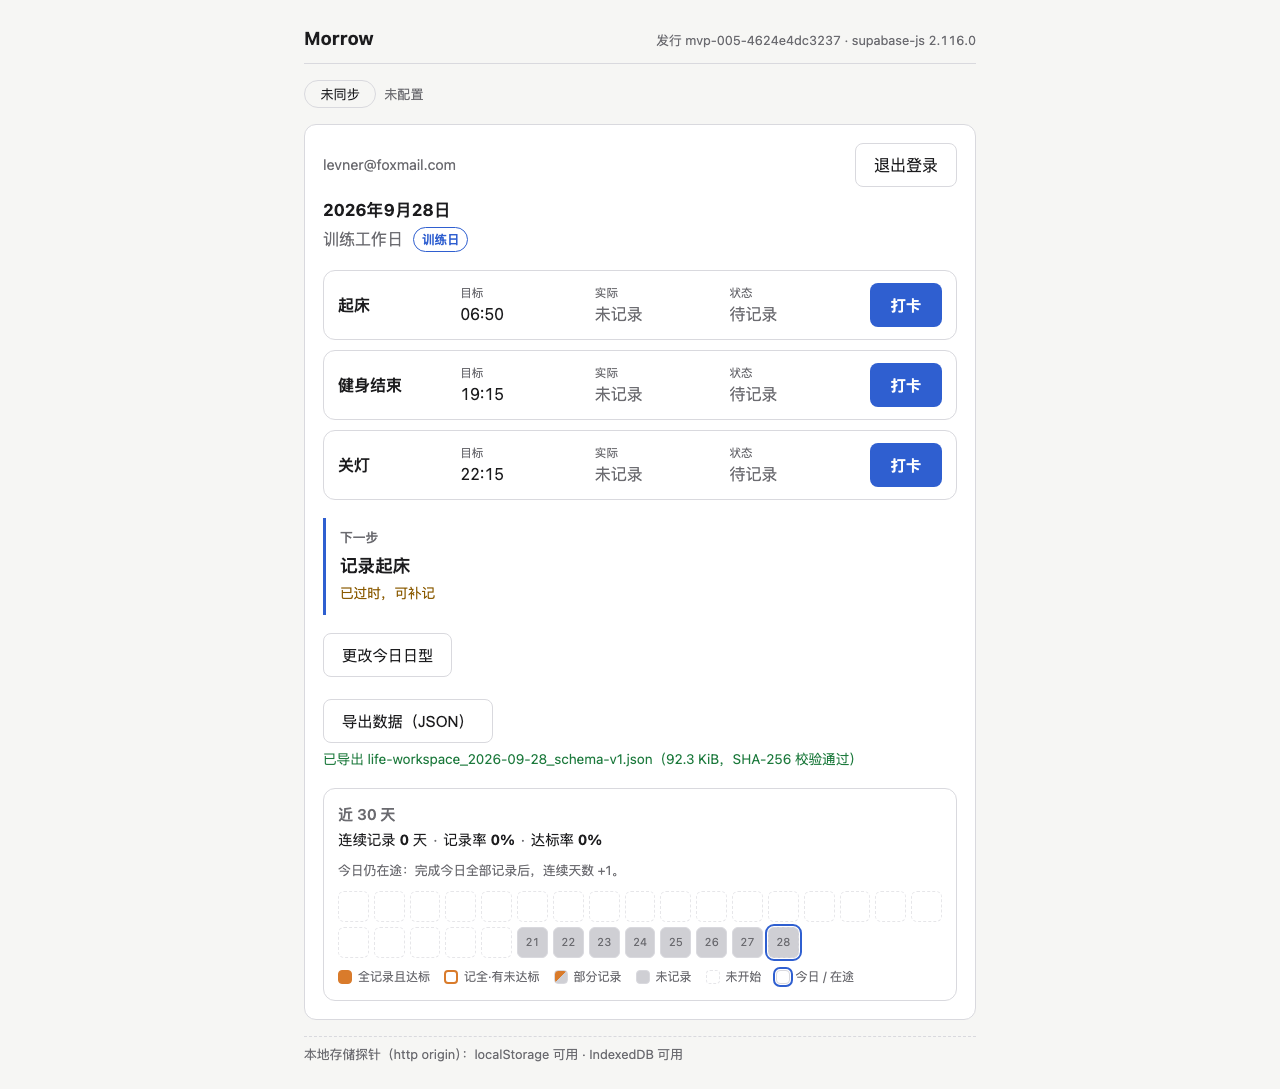
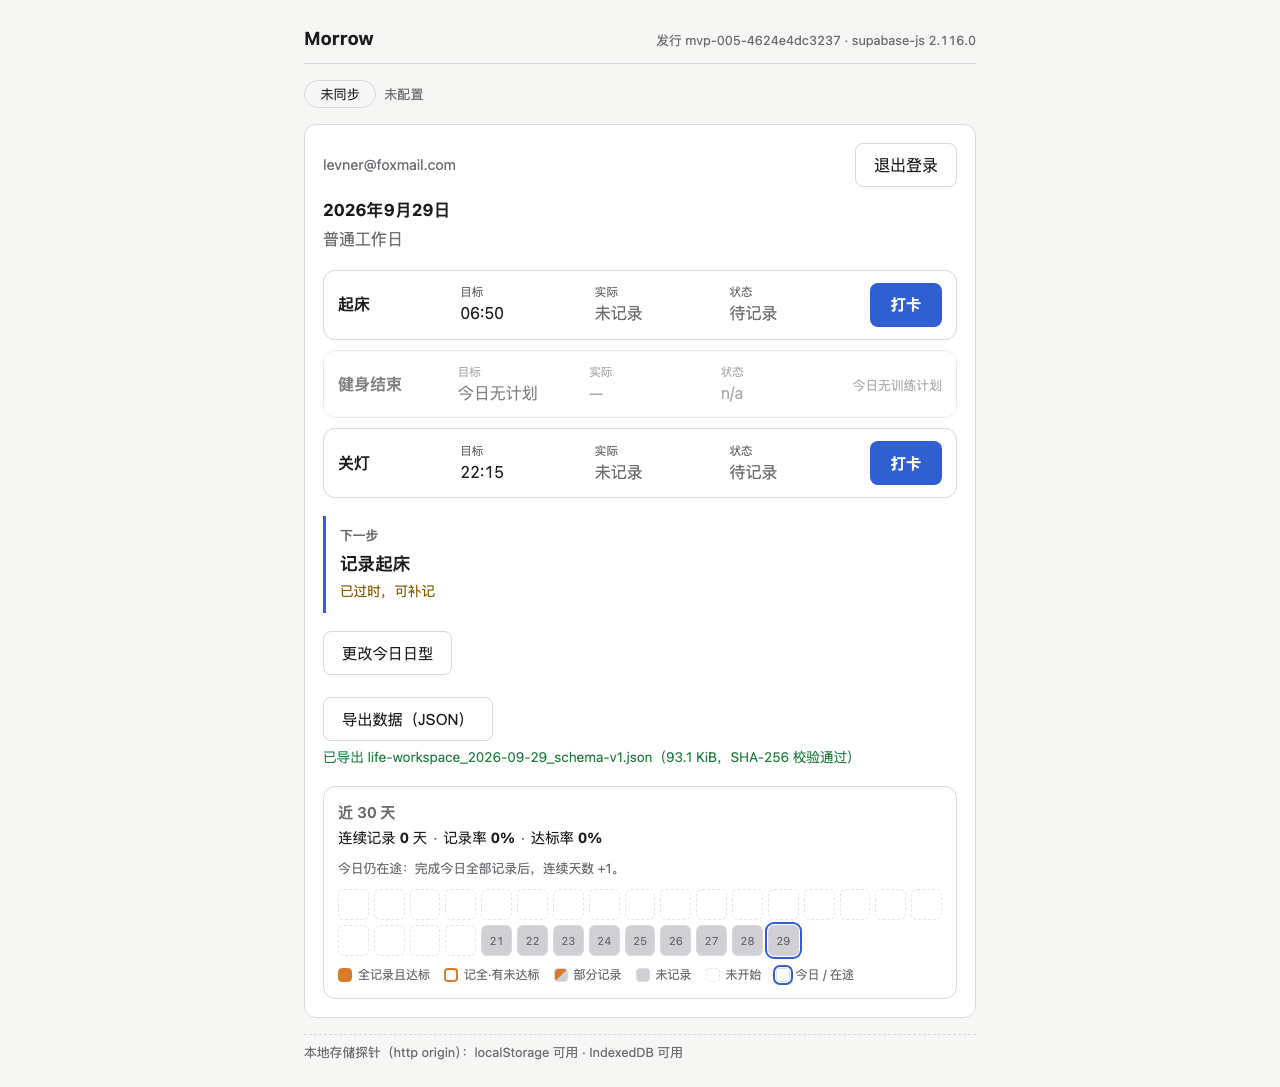
MVP-005: 三方签核闭环——WorkBuddy(Kimi K3)安全复核 PASS(三线全绿+3条P3注记)；Hermes 终核 anon 42501 复现与 wb-s05 零残留对账一致；task-index MVP-005→PASS、next→MVP-006

diff --git a/docs/planning/evidence/MVP-005/workbuddy-security-review.md b/docs/planning/evidence/MVP-005/workbuddy-security-review.md
@@ -1,0 +1,86 @@
+# MVP-005 安全复核报告 — WorkBuddy（Kimi K3）第三方独立复核
+
+> 复核人：WorkBuddy + Kimi K3｜日期：2026-09-29
+> 复核对象：HEAD `a22d279`（= 交付提交 `aa3d7fa` + Hermes 签核仅改 result.md 签核区，`git diff aa3d7fa..a22d279 --stat` 实证代码零变更）
+> 纪律：不采信 Trae/Hermes 结论，全部探针自跑；fixture 前缀 `wb-s05:`；SQL 探针单 DO 块 + RAISE 强制回滚；凭据 keychain 注入进程 env，不落盘不打印；本文所有 key/token/密码值 [REDACTED]，owner uuid 仅留前 8 位 `0c645909…`。
+
+---
+
+## §0 结论：**PASS**
+
+三线全绿，未发现 P0/P1/P2。NEW-FINDING 三条均为 P3 行为边界注记（详见 §2），不构成阻塞。与 Trae/Hermes 结论零实质偏差（§3）。真库零残留已自查（§4）。
+
+---
+
+## §1 三线证据表
+
+### 线 A：无凭据红线
+
+| 项 | 方法 | 期望 | 实测（自跑输出摘要） | 判定 |
+|---|---|---|---|---|
+| A1a `credentials` 列探测 | DO 块 `set role authenticated` + owner claims，`perform credentials from export_agent_clients_v1` | 42703 列不存在 | HTTP 400 `WB_S05_LINEA_PROOF: A1a_credentials_42703: pass` | PASS |
+| A1b `locator` 列探测 | 同上 | 42703 | `A1b_locator_42703: pass` | PASS |
+| A1c `credentials_hash` 补探 | 同上 | 42703 | `A1c_credentials_hash_42703: pass` | PASS |
+| A1d 封闭视图 advice | authenticated 读 `export_agent_advice_v1` | 42501 零授权 | `A1d_agent_advice_42501: pass` | PASS |
+| A1e 封闭视图 rules | authenticated 读 `export_automation_rules_v1` | 42501 | `A1e_automation_rules_42501: pass` | PASS |
+| A1f anon 补刀（自加） | `set role anon` 读 `export_life_data_v1` | 42501（合同 S01） | `A1f_anon_life_data_42501: pass` | PASS |
+| A1g 视图列清单对账 | `information_schema.columns` 实拉 7 个 `export_*_v1` 视图 | 与 C-08 白名单/0004 逐列一致 | 7 视图 58 列逐一比对：agent_clients 恰 11 列（id/user_id/name/type/scopes/enabled/created_at/updated_at/last_seen_at/revoked_at/version），无 credentials/locator/hash；其余 6 视图与 0004 migration 逐列相等，多一列少一列均无 | PASS |
+| A2 scanValue 压力测 | Node vm 沙箱加载发行 `assets/js/export.js`，`_internals.scanValue`，16 变体 | 攻击变体全命中、正常数据不误伤 | **16/16 ALL_PASS**：大写 `API_KEY`/`CREDENTIAL` 命中、`api-key`/`api_key` 命中、嵌套数组内 `token` 命中、JWT(`eyJ…`)/`sb_secret_`/`sk-`/`sb_publishable_` 形态值全命中、深层混合双命中；`request_id`/数字/布尔/null/短 eyJ 不误伤；`tokenized` 命中（与 Hermes 记录一致的已知行为） | PASS |
+| A2b `EyJ` 大小写边界 | 同上 V11/V12 | 如实记录行为边界 | `EyJ…`（大小写混合）hits=0 不命中；非开头 eyJ 不命中（`^` 锚定）→ 记 P3 注记（§2 F1），非缺陷 | PASS（注记） |
+| A2c 样本独立扫描 | 自写扫描器（迭代遍历+独立正则集，**不 import export.js**）扫 `sample-export.json` 122 节点 | 零命中；无真实 owner uuid 全文；无 `sb_publishable_` 值 | 8/8 PASS：敏感键/值零命中；`0c645909-ebb5-4910-ab99-4f7b238c9529` 不在文件；owner_id 为合成 `00000000-0000-…`；`"9007199254740993"` 字符串保真在包；容器七键齐 | PASS |
+| A3 dist 产物扫描 | 对 `dist/index.html`（342161 B）扫 `sb_secret_`/`sb_publishable_值`/真实三段 JWT/`service_role`/`password:"值"`/硬编码 supabase URL | 真实硬编码值零命中 | 精确扫描（区分真实值与正则字面量）**全 0 命中**；初筛 6 处命中逐个人工核对：4 处为 minified supabase-js SDK 内部码/config.js 密钥格式正则与注释、2 处为 `signInWithPassword({password: 变量})` 变量引用——均非凭据值。publishable key 运行时来自 localStorage/URL 参数注入（P0-006 设计），dist 无硬编码 | PASS |
+
+### 线 B：一致性快照语义（`wb-s05:` 前缀，事务回滚）
+
+| 项 | 方法 | 期望 | 实测（自跑输出摘要） | 判定 |
+|---|---|---|---|---|
+| S1a INSERT bump | 事务内插 `wb-s05:s1-insert`，前后读 `workspace_state.data_revision` | bump 2（audit 直接 +1，audit 行进 activity_log 再 +1） | `S1a_insert_bump2: pass, delta=2` | PASS |
+| S1b UPDATE bump | 改同一行 payload | ≥1 | `S1b_update_bump: pass, delta=2`（与 INSERT 同路径） | PASS |
+| S1c softdelete bump | `deleted_at=now()` | ≥1 | `S1c_softdelete_bump: pass, delta=2` | PASS |
+| S1d last_seen bump | 更新 agent_clients.last_seen_at | bump 恰 1 且无配置日志 | `S1d_last_seen_bump1_nolog: pass, delta=1, clients=8`，`agent_clients.update` 日志行数前后不变 | PASS |
+| S1 独立对账 | 自数 `wb-s05:%` audit 行 | 自算 delta 自洽 | 我的 audit_rows=3（insert/update/softdelete 各 1）×2 = 6 = S1a+S1b+S1c 实测 delta 之和（2+2+2），独立对账闭合（未复用 Trae 的 12004 结论） | PASS |
+| S2 混合包反事实 | R0 读 → 插入 `wb-s05:s2-mid-export-write` → 切 authenticated 经视图分页读 → R1 读 | R1≠R0 可检出 | `S2_mixed_detectable: pass, R0=471, R1=473`（写入 bump 2），分页读见 wb-s05 行 2 条；前端重试逻辑的 DB 侧语义前提成立 | PASS |
+| S3 封闭集合真实性 | postgres 直数底表 | count=0（空数组=真实状态） | `S3_closed_sets_zero: pass, agent_advice=0, automation_rules=0` | PASS |
+
+### 线 C：前端安全审读（`export.js` 588 行 + `transport.js restText` L208-264 全文审读）
+
+| 项 | 方法 | 期望 | 实测 | 判定 |
+|---|---|---|---|---|
+| C1 token 流向 | 静态审读 restText | Bearer 只进 headers，不进返回值/日志/错误文本 | token 取自 `auth.getSession()` 仅拼接 `Authorization` 头；返回 `{ok,status,text}` 或 `{ok:false,error:{kind,text,retryable}}`；错误 text 为固定文案+HTTP 状态码，不含响应体更不含 token；全函数无 console/log 调用 | PASS |
+| C2 下载 XSS 面 | 静态审读 `downloadFile`/`mount`/`setStatus` | 无注入面 | Blob 固定 `application/json`；`a.download` 文件名 = 固定前后缀 + `localDateStr(tz)`（Intl en-CA 输出恒为 `YYYY-MM-DD` 数字与连字符，tz 异常有 catch 兜底）；href 为 `blob:` 对象 URL 不可注入；`mount` 的 innerHTML 为纯静态模板；状态文案一律 `textContent`；全文无动态数据进 innerHTML | PASS |
+| C3 parseLossless 拒绝路径 | 实跑压测：10 万/1 万层嵌套、10 万层不闭合、10 万键宽对象、runExport 端到端 | 不打挂、不产半包 | 10 万层与 1 万层嵌套均 1-2ms 内抛 RangeError（可 catch，进程存活）；对照原生 JSON.parse 10 万层正常解析（实现差异见 §2 F2）；10 万键宽对象 53ms 正常解析；runExport 喂 10 万层响应 → `ok=false kind=internal`，无下载无崩溃 | PASS（注记 F2） |
+| C4 `_setPageSize` 暴露面 | 静态评估 window.Morrow.export 挂载面 | 测试钩子无可利用危害 | `_setPageSize`/`_internals` 挂 window，仅同源页面上下文可调（该上下文本就持有用户 session，权限不扩大）；效果仅限本客户端后续导出的分页宽度：调小→请求变多自我 DoS（有 `MAX_PAGES_PER_TABLE=20000` 守卫与 25MiB 上限封顶）；调大→PostgREST 侧 max-rows 截断仍受 R0/R1 一致性保护；不触碰他人数据、不破坏 hash 校验（round-trip 不过则拒下载） | PASS（注记 F3） |
+
+---
+
+## §2 NEW-FINDING（均 P3，不阻塞）
+
+- **F1（P3）scanValue JWT 正则的行为边界**：`JWT_LIKE_RE = /^eyJ[A-Za-z0-9_-]{20,}\./` 大小写敏感且 `^` 锚定——`EyJ…` 混合大小写或 eyJ 出现在字符串中段均不命中。实测 V11/V12 hits=0。真实 Supabase JWT 恒以小写 `eyJ` 开头且作为完整字段值出现，构造不出真实绕过场景；且列白名单（A1）才是主防线，scanValue 是兜底。定性：行为边界注记，非缺陷。
+- **F2（P3）parseLossless 递归深度低于原生 JSON.parse**：约 1 万层嵌套即 RangeError（原生 10 万层仍正常）。后果链已实测闭环：RangeError → runExport catch → 重试耗尽 → `ok:false` 明确失败，**不崩溃、不下载半包**。M1 数据源是自己的库、PostgREST 响应为浅层业务 JSON，攻击面有限；唯一小瑕疵是此类失败的文案为通用「导出过程中发生未知错误」，不区分栈溢出。可选改进（非本卡范围）：parseLossless 加深度上限提前报错。
+- **F3（P3）测试钩子生产暴露**：`_setPageSize` 与 `_internals`（含 runExport/scanValue 等）在生产 dist 挂 `window.Morrow.export`。评估见线 C C4 行：同源上下文本就持有 session，钩子的最坏后果是自我 DoS 且被多重守卫封顶，无数据外泄与完整性影响。有 `drafts.js _read` 先例，M1 可接受；Phase 后可用 `import.meta.env` 类构建期开关摘除。
+
+---
+
+## §3 与 Trae/Hermes 结论的偏差点
+
+**零实质偏差。** 逐条对照：
+
+1. Trae「life_data 每行写入 bump 2 / last_seen bump 1 无日志」——我的 S1 矩阵独立实测 insert=2/update=2/softdelete=2/last_seen=1，语义一致（我未复跑其 1001+10000 fixture 与 delta=12004，而是按提示词要求自构造最小矩阵自算 delta，audit_rows×2=6 与实测总 bump 闭合）。
+2. Trae/Hermes「白名单 42703、封闭视图 42501×2」——我的 A1a-A1e 全部复现，另自加 anon 42501（A1f）与 information_schema 全列对账（A1g），一致。
+3. Hermes「scanValue 大写绕过变体全命中、`tokenized` 命中」——我的 V1/V2/V14 复现一致。
+4. Hermes「parseLossless 严格性 12 类全拒」——我不重复其清单，改测其未覆盖的深度维度（F2），结论互补不冲突。
+5. Hermes 复核后真库 revision=464——我的回滚自查同值 464，期间无人动库。
+
+---
+
+## §4 凭据与残留自查
+
+- **探针回滚证据**：线 A/线 B 两个 DO 块均以 `RAISE EXCEPTION 'WB_S05_LINE*_PROOF …'` 收尾（HTTP 400 为预期成功信号），全部写入随事务回滚。回滚后独立只读自查：`life_data where entity_key like 'wb-s05:%'` = **0**、`activity_log where metadata->>'entity_key' like 'wb-s05:%'` = **0**、Trae 旧 fixture `mvp005test:%` = **0**、`workspace_state.data_revision` = **464**（与 Hermes 签核时一致）。真实库零持久写。
+- **凭据纪律**：PAT/publishable key/owner email+password 均 keychain `-a morrow` 注入探针进程 env（`security find-generic-password … -w` stdout 重定向 /dev/null 探测存在性，值从未打印、未落盘、未进命令行参数）；本报告及全部探针文件中 key/token/密码值为零（可 grep 复核）；owner uuid 仅出现前 8 位 `0c645909…` 与提示词已公开的全文引用（用于反向断言样本不含该值）。
+- **git 纪律**：全程只读（log/diff/status），未 commit、未 push、未碰 task-index；探针脚本与 SQL 均在 `/tmp/wb-s05/`，仓库唯一新增文件即本报告。
+
+---
+
+## 一句话交付凯哥
+
+MVP-005 三条安全线（无凭据红线 / 快照语义 / 前端审读）全部独立自跑复现通过，真库零残留、记录零凭据，仅三条 P3 行为边界注记不阻塞——安全复核签 **PASS**，task-index 可翻牌进入 MVP-006。

diff --git a/docs/planning/evidence/MVP-005/result.md b/docs/planning/evidence/MVP-005/result.md
@@ -163,9 +163,9 @@ REPRODUCIBLE: PASS（第二次 --check）
   - UI E2E 复跑：41/41 逐条 PASS（revision=464、activity_log=194、多页游标 104 个——数据随真实工作区浮动，结构断言全过；T3 counts/sha 与整页全等、T4 篡改值未入包、T5 断网零下载）
   - **深审独立对抗探针（63 项，超出施工测试覆盖）**：UTF-16 键序混排（\u00A0/\u2028/€/😀/דּ）、JCS 数字序列化边界（1e21/5e-324/最小 subnormal/-0→"0"/NaN·Infinity 拒绝）、parseLossless 严格性（01/1./1.e3/+1/.5/悬空 e/--1/截断输入 12 类全拒）、lone surrogate round-trip（\ud800/\udfff 独立保真）、scanValue 大写绕过（TOKEN/secret_data/session_id/tokenized 全命中、数字布尔 null 不误伤）、错误路径（settings 空行/state 0 行/revision 非法/401 不重试/网络错误恰 3 次尝试）
 - 深审（Hermes + DeepSeek V4 Pro）：**PASS（Hermes 已签）**；收据与实测零偏差，未发现 P0/P1/P2
-- 安全复核（WorkBuddy + Kimi K3）：待复核（提示词已交付）
-- 签核人 / 时间：Hermes（GLM-5.3）2026-09-29 09:4x CST；task-index 待 WorkBuddy 复核后翻牌
-- task-index PASS 执行人：（待翻牌时填写）
+- 安全复核（WorkBuddy + Kimi K3）：**PASS（2026-09-29）**——三线全绿（线 A 无凭据红线 16 变体 + anon 补刀 42501 + 全列对账；线 B 快照语义最小矩阵独立对账 audit_rows×2 闭合；线 C 前端审读含 10 万层嵌套压测），三条 P3 注记（F1 JWT 正则边界 / F2 递归深度 / F3 测试钩子暴露）不阻塞；Hermes 终核对账：A1f anon 42501 复现 = true、`wb-s05:%` 零残留、revision=464 与签核时一致——报告见 `workbuddy-security-review.md`
+- 签核人 / 时间：Hermes（GLM-5.3）2026-09-29 09:4x CST；WorkBuddy（Kimi K3）2026-09-29；**三方签核闭环，task-index 已翻牌**
+- task-index PASS 执行人：Hermes（GLM-5.3）——MVP-005 → PASS、next_task → MVP-006（随本 commit 入库）
 
 ---
 

diff --git a/.workbuddy/memory/2026-09-29.md b/.workbuddy/memory/2026-09-29.md
@@ -1,0 +1,11 @@
+# 2026-09-29
+
+## MVP-005 安全复核（WorkBuddy 第三方独立复核）→ PASS
+
+- 产出：`docs/planning/evidence/MVP-005/workbuddy-security-review.md`（§0 PASS / 三线证据表 / 3 条 P3 注记 / 与 Trae·Hermes 零偏差 / 回滚+凭据自查）。
+- 复核对象 HEAD `a22d279`（= 交付 aa3d7fa + Hermes 签核仅改 result.md，diff 实证代码零变更）。
+- 线A：白名单 42703×3 + 封闭视图 42501×2 + 自加 anon 42501 + information_schema 7 视图 58 列与 0004/C-08 逐列相等；scanValue 16 变体全过（EyJ 大小写不命中=P3 边界）；独立扫描器扫 sample-export.json 8/8；dist 342KB 精确扫描真实凭据值 0 命中（初筛 6 处均为 SDK 内部码/正则字面量/变量引用）。
+- 线B（wb-s05: 前缀，RAISE 回滚）：S1 insert/update/softdelete 各 bump 2、last_seen bump 1 无日志，audit_rows=3×2=6 独立对账闭合；S2 R0=471→R1=473 混合包可检出；S3 两封闭表 count=0。回滚自查残留 0、revision=464 与 Hermes 一致。
+- 线C：restText token 只进 headers；下载链无 XSS 面（textContent/blob:/Intl 日期）；parseLossless ~1 万层嵌套 RangeError（原生 JSON.parse 10 万层仍过）但 runExport 捕获→明确失败无半包（P3）；_setPageSize/_internals 生产暴露但同源本持 session、守卫封顶（P3）。
+- 探针全部在 /tmp/wb-s05/（query.mjs 经 keychain 注 PAT，值零打印）；git 全程只读，task-index 未碰（翻牌归凯哥/执行人）。
+- 经验：Management API `POST /v1/projects/<ref>/database/query` 跑 DO 块，HTTP 400 + 消息含 PROOF 前缀 = 预期成功信号；`set_config('role','authenticated',true)` + `request.jwt.claims` 可模拟 authenticated 上下文测视图授权（42501）与列存在性（42703）；vm 沙箱跨 realm 的 `instanceof Error` 为 false，需用 constructor.name 判定。
